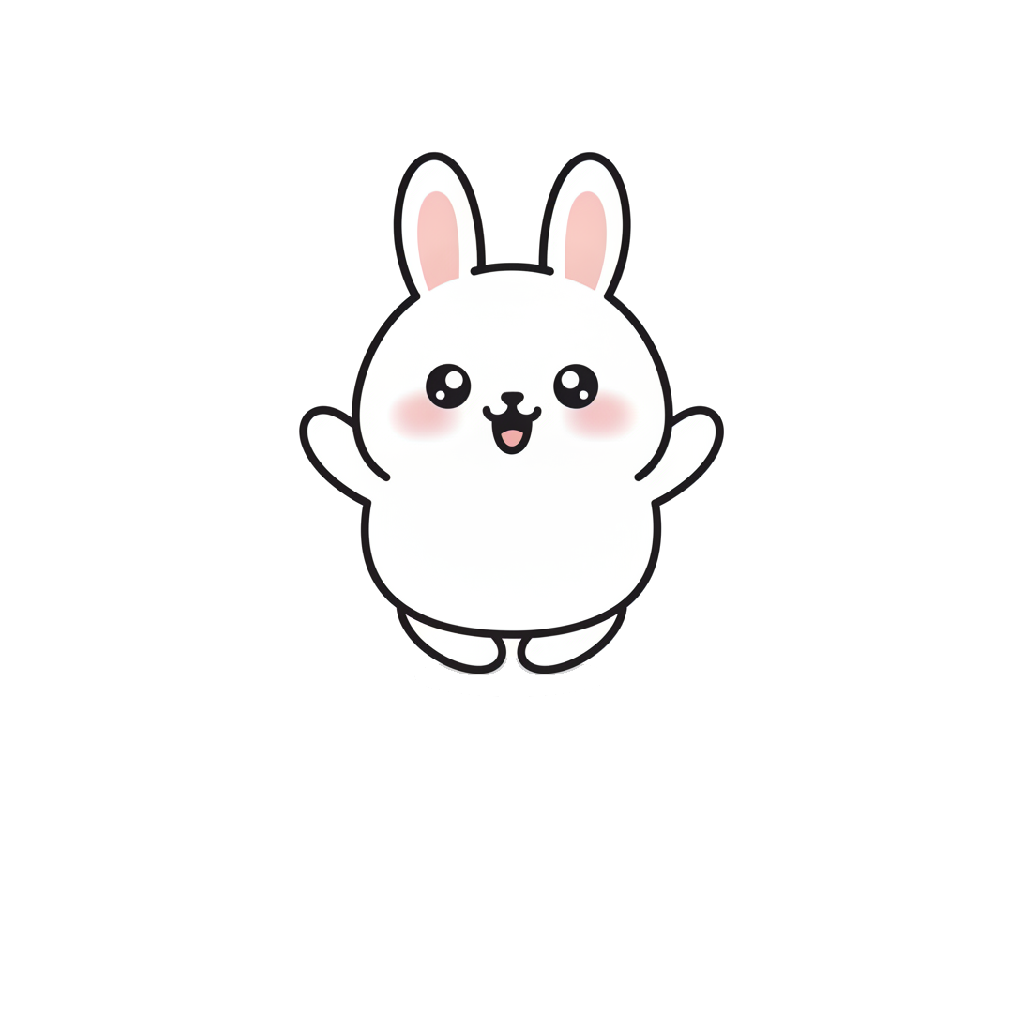
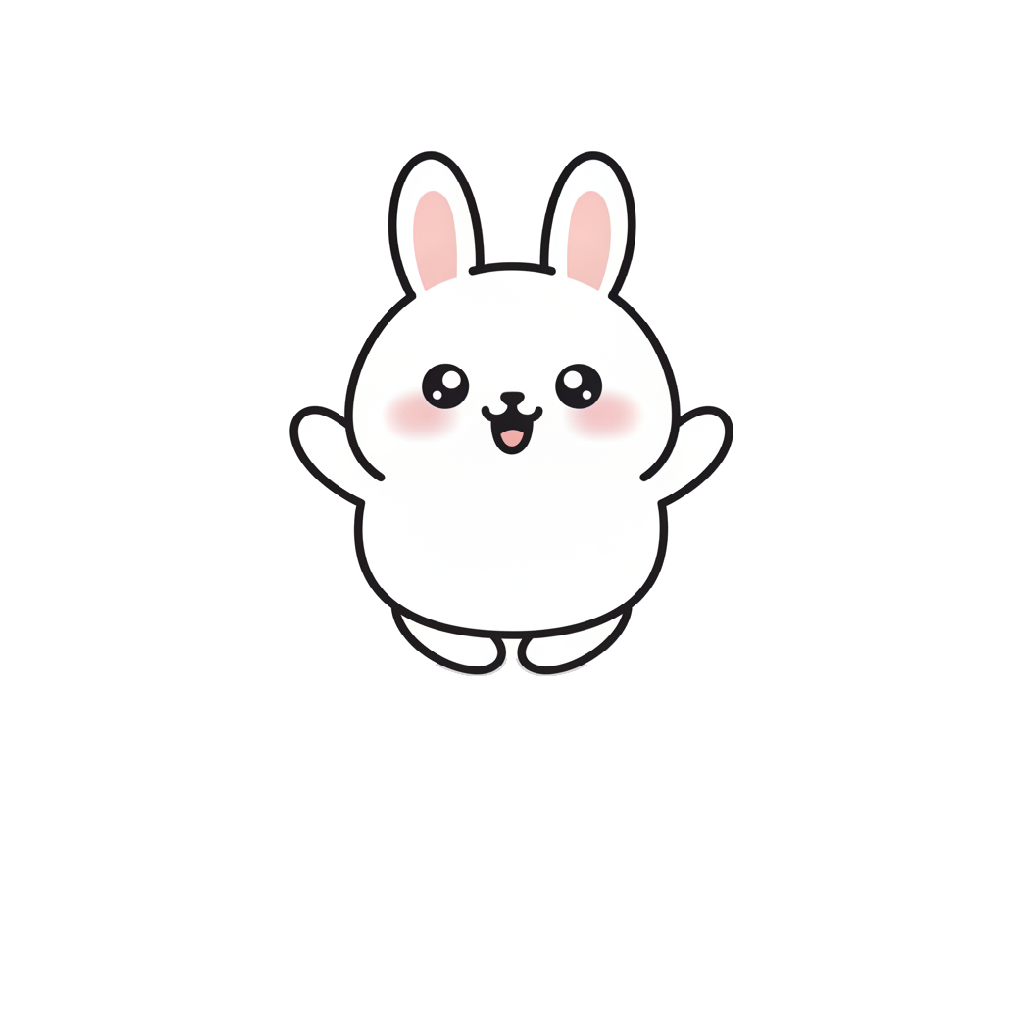
emoticon: fit을 가로·세로 따로 맞추도록 + bounce3 3번 재적용, 교훈 58~61
균일 배율은 원래 홀쭉했던 프레임의 폭을 더 좁힌다 — bounce3 3번이
582x453이라 높이만 맞추자 폭이 이웃보다 4% 좁아졌다. 두 축을 각각
나머지 프레임의 중앙값에 맞추니 정상 비율 네 장이 444px로 정확히 같아졌다.
리샘플링을 두 번 겹치지 않게 3번은 fit 이전 원본에서 다시 시작했다.

의도한 스쿼시·스트레치 프레임에는 쓰면 안 된다 — 6번은 1.076/0.946으로
지시(1.08/0.94)를 지킨 것이라 맞췄으면 유일하게 성공한 스트레치를 지울 뻔했다.

diff --git a/work/emoticon/lesson_learned.md b/work/emoticon/lesson_learned.md
@@ -276,6 +276,27 @@
     한 부위를 상세히 지정하면 같은 프레임의 다른 부위도 개수·위치를 함께
     못 박아야 한다. → `below the body there are exactly two feet, side by side …`
 
+58. **드롭섀도는 그 포즈의 관용구다 — 재생성으로 안 없어진다.** bounce3
+    3·4번에만 발밑 회색 타원이 생겼고, 다시 구웠더니 **같은 자리에 또** 나왔다.
+    발과 이어져 있어 연결요소로도 못 뗀다. 대신 **닫힌 검은 외곽선의 바깥**이라는
+    성질이 있다 — 캔버스 가장자리에서 잉크를 넘지 않고 흘러 닿는 영역 중
+    무채색 중간 밝기 픽셀이 그림자다(`unshadow`). 선 둘레 2px는 지켜야 한다.
+59. **재생성은 고친 것 **옆**을 망친다.** 그림자를 없애려고 4번을 다시 구웠더니
+    입이 닫혀서 3번·5번 사이에서 깜빡였다. §51(redo가 이웃 맥락을 잃는다)의 결과다.
+    → **코드로 고칠 수 있으면 항상 코드가 낫다.** 재생성은 부작용이 있고
+    재작업 횟수를 태우지만, 코드 수정은 무료·결정론적이고 그 픽셀만 건드린다.
+60. **`fit`은 반드시 가로·세로를 따로 맞춰야 한다.** bounce3 3번이 이웃보다
+    7% 컸는데, 균일 배율로 높이만 맞췄더니 원래 홀쭉했던 탓에 폭이 4% 좁아졌다.
+    두 축을 각각 중앙값에 맞추자 네 장이 정확히 같은 크기가 됐다.
+    **쓰기 전에 그 크기 차이가 의도한 스쿼시·스트레치인지 확인할 것** — bounce3
+    6번은 1.076/0.946으로 지시(1.08/0.94)를 거의 그대로 지킨 것이라, 맞췄으면
+    유일하게 성공한 스트레치를 지울 뻔했다.
+61. **발 "위치"도 약하게만 통제된다.** 개수·모양을 CANON에, 위치를 POSE에
+    나눠 접음→뻗음으로 단조롭게 지시했지만 실측 돌출량은
+    5.9 / 6.8 / 7.7 / 5.9 / 9.5 / 6.7 / 7.4 / 9.5 % 로 **단조롭지 않았다**(6번이 역전).
+    전체 경향(접음 5.9~7.7 대 뻗음 6.7~9.5)은 맞으나 프레임 단위로는 튄다.
+    → 발 움직임을 확실히 만들려면 리깅(코드가 발을 옮기는 것)이 필요해 보인다.
+
 ## 비용·시간 감각 (실측)
 
 - 시트 1장 ≈ $0.04, 12프레임 컷 1개 ≈ $0.5, Actions 잡 1회 ≈ 4~5분.
